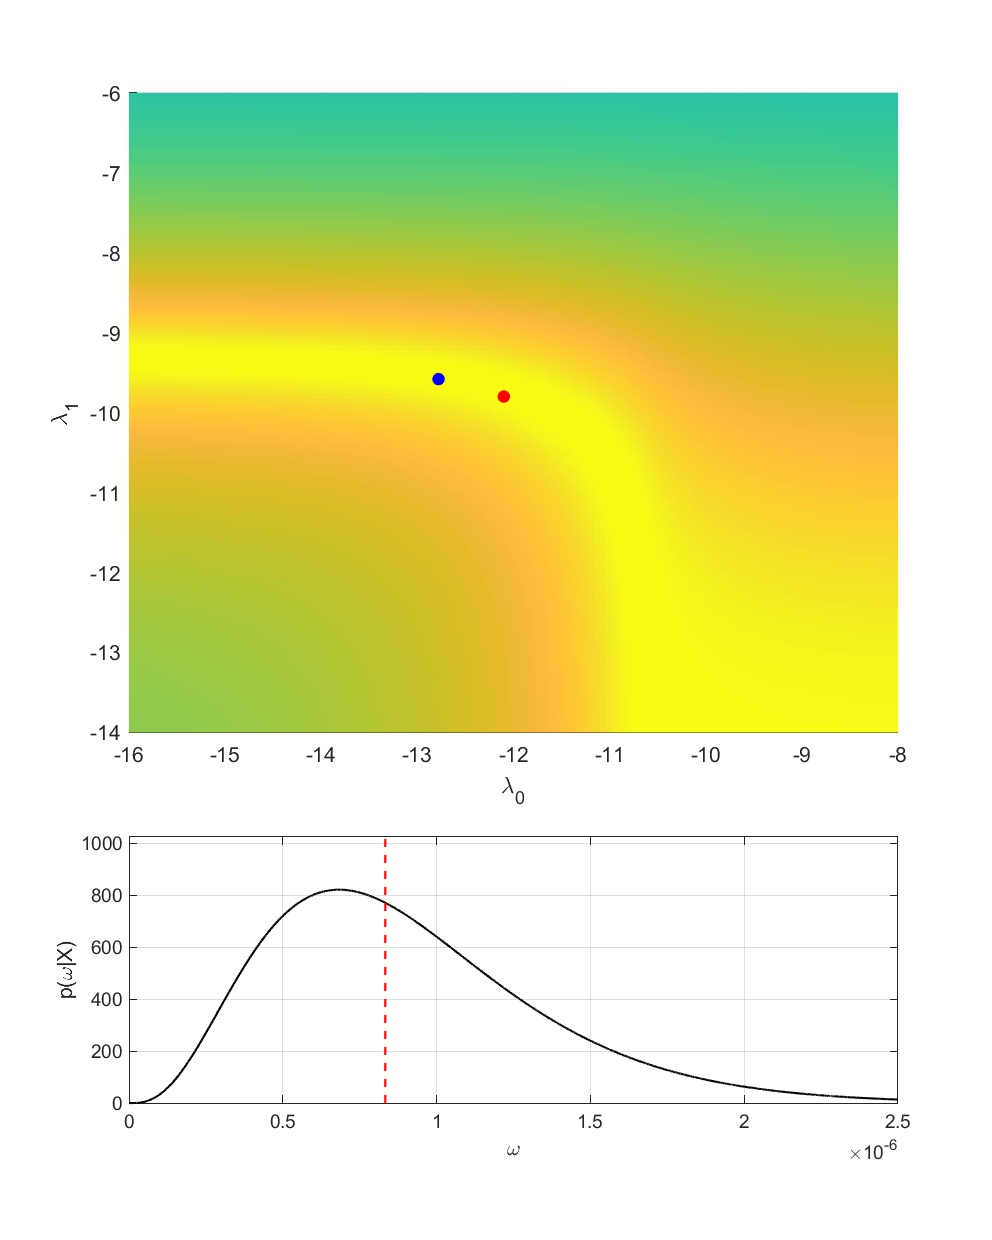
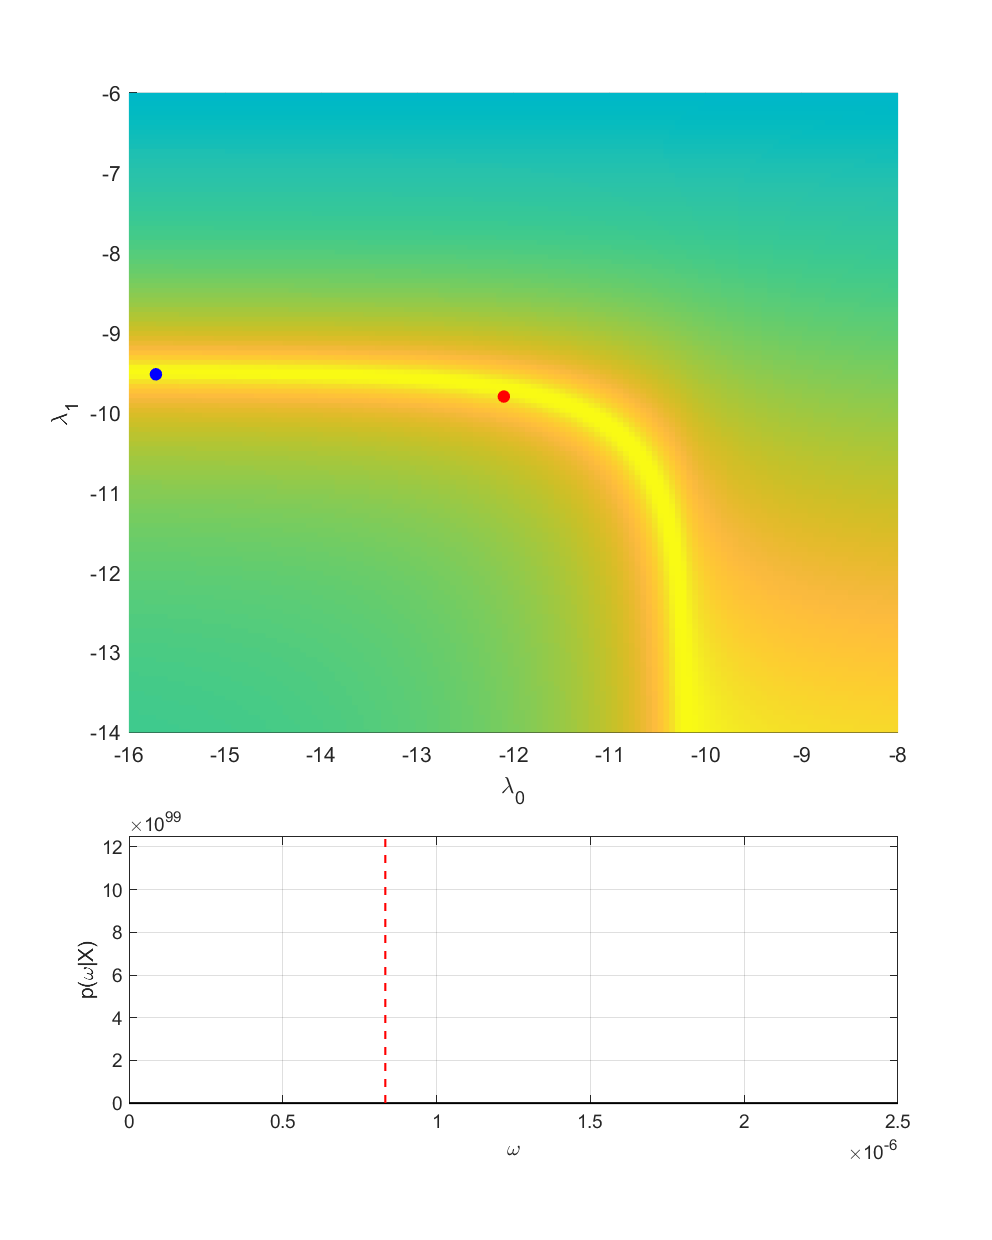
dty
y8ikui

diff --git a/Allee/allee_main.m b/Allee/allee_main.m
@@ -10,13 +10,14 @@ RealFolder = [fileparts(pwd) '\Microscopy Data'];
 addpath(([SimFolder, filesep]))
 df = dir(DataFolder);
 %df = dir(RealFolder);
-
+%%
 df   = df(3:end);
 o0   = 0;
 o1   = 0;
 save = 1;
 MCMC = 0;
-for d = length(df)-9:length(df)
+Z    = zeros(201);
+for d = length(df)-3:length(df)
     clc
     close all
     h = figure('units','centimeters','position',[0 0 16.8 21]);
@@ -93,10 +94,10 @@ for d = length(df)-9:length(df)
         rl0 = round(log(facit(1)));
         rl1 = round(log(facit(2)));
         plot_range = 12;
-        l0linspace = linspace(rl0-plot_range,rl0+plot_range,401);
-        l1linspace = linspace(rl1-plot_range,rl1+plot_range,401);
+        l0linspace = linspace(rl0-plot_range,rl0+plot_range,201);
+        l1linspace = linspace(rl1-plot_range,rl1+plot_range,201);
         [L0,L1] = meshgrid(l0linspace,l1linspace);
-        Z = L0;
+        %Z = L0;
         for i = 1:size(L0,1)
             for j = 1:size(L1,1)
                 Z(i,j)       = likelihood_handler(rho,dbeta,D,dt,2,exp([L0(i,j) L1(i,j)]));
@@ -104,16 +105,17 @@ for d = length(df)-9:length(df)
         end
         [m1,i1] = max(Z);
         [~,i2] = max(m1);
-        ML = [i1(i2) i2];
+        MLi = [i1(i2) i2];
+        ML  = [l0linspace(MLi(1)) l1linspace(MLi(2))];
         LAMBDA = likelihood_handler(rho,dbeta,D,dt,2,[facit(1) facit(2)]);
-        MAMBDA = likelihood_handler(rho,dbeta,D,dt,2,exp([l0linspace(ML(1)) l1linspace(ML(2))]));
+        MAMBDA = likelihood_handler(rho,dbeta,D,dt,2,exp(ML));
         log_it = 1;
         subplot(3,2,1:4)
         hold off
         surf(L0,L1,repeated_sqrt(Z,log_it),'EdgeColor','none')
         hold on
         scatter3(log(facit(1)),log(facit(2)),repeated_sqrt(LAMBDA,log_it),'red','filled')
-        scatter3(l0linspace(ML(2)),l1linspace(ML(1)),repeated_sqrt(MAMBDA,log_it),'blue','filled')
+        scatter3(ML(1),ML(2),repeated_sqrt(MAMBDA,log_it),'blue','filled')
         xlabel('\lambda_0')
         ylabel('\lambda_1')
         xlim([rl0-plot_range/3 rl0+plot_range/3])
@@ -121,30 +123,31 @@ for d = length(df)-9:length(df)
         view(0,90)
 
         subplot(3,2,5:6)
-        o0K = o0 + sum(death_event_list(:,2));
-        o1K = o1 + sum(death_event_list(:,1)-death_event_list(:,2));
-        death_pdf = @(r) (1/beta(o0K,o1K))*(1-exp(-dt*r)).^(o0K-1).*exp(-(o1K-1)*dt*r);
-        r = linspace(0,3*facit(3),10001);
+        o0 = o0 + sum(death_event_list(:,2));
+        o1 = o1 + sum(death_event_list(:,1)-death_event_list(:,2));
+        death_pdf = @(r) (o0-1)*log((1-exp(-dt*r))) - (o1-1)*dt*r;
+        r = linspace(facit(3)/9,3*facit(3),10001);
         max_death = max(max(death_pdf(r)),10^100);
+        min_death = min(min(death_pdf(r)),10^100);
         plot(r,death_pdf(r),'k','LineWidth',1)
         hold on
-        plot(facit(3)*[1 1],1.5*[0 max_death],'r--','LineWidth',1)
-        xlim([0 max(r)])
-        ylim([0 1.25*max_death])
+        plot(facit(3)*[1 1],[min_death 1.5*max_death],'r--','LineWidth',1)
+        xlim([min(r) max(r)])
+        ylim([min_death*1.25 1.25*max_death])
         xlabel('\omega')
         ylabel('p(\omega|X)')
         grid on
 
         if save == 1
-            figname = ['likelihood_' num2str(d)];
+            figname = ['add_likelihood_' num2str(d)];
             saveas(h,figname,'png');
         end 
     end
 end
 
 %%
-death_pdf = @(r) log((1-exp(-dt*r)).^(o0K-1).*exp(-(o1K-1)*dt*r));
-r = linspace(0,3*facit(3),10001);
+death_pdf = @(r) (o0-1)*log((1-exp(-dt*r))) - (o1-1)*dt*r;
+r = linspace(facit(3)/9,3*facit(3),10001);
 
 plot(r,death_pdf(r),'k','LineWidth',1)
 
